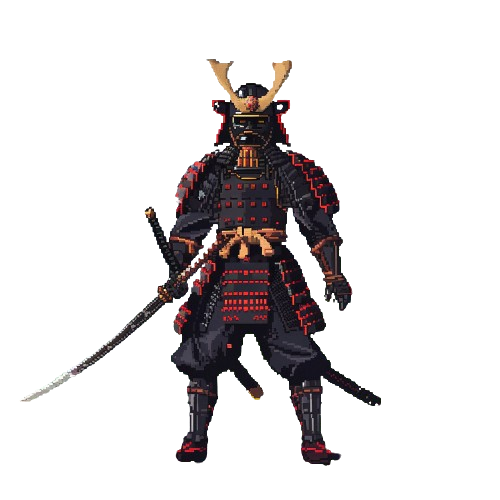
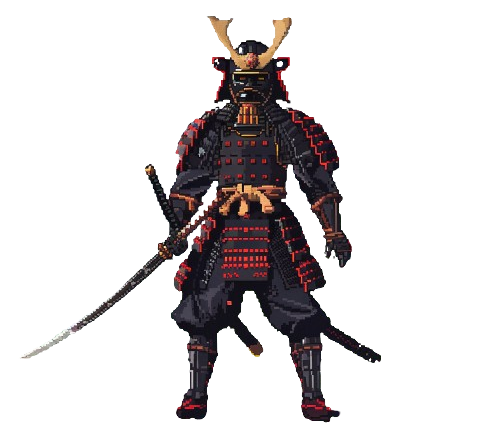
finished (i guess)

diff --git a/src/Components/PlayerCard.js b/src/Components/PlayerCard.js
@@ -6,24 +6,33 @@ import ProgressBar from './ProgressBar';
 const PlayerCard = ({ player }) => {
     
     return (
-        <div key={player.id} className="col-sm-3 card center position-relative w-25" id={`joueur${player.id}`}>
+        <div key={player.id} className="col-sm-3 center position-relative " id={`joueur${player.id}`}>
             {!player.canPlay && 
                 <div className='cantPlay'></div>
             }
 
-            <div className="card-body text-center">
-                
+            <div className="card-body p-3 text-center player-card d-flex flex-column">
+                <div className='w-100 d-flex justify-content-center'>
                 <img src={player.image} alt={`Samurai ${player.id}`}/>
+                </div>
+
+                <div className='d-flex flex-column gap-3'>
+                <div className='player-bar d-flex flex-column gap-2'>
                 <ProgressBar pv={player.pv} pvMax={player.pvMax} faType='fa-heart' barName=' : pv ' bgType='bg-danger' />
                 <ProgressBar pv={player.mana} pvMax={player.manaMax} faType='fa-fire-alt' barName=' : mana ' />
+                </div>
 
                 <span className="badge badge-danger ml-2 " id="degatSpanJ1"></span>
                 <div className="row ">
-                    <div>
+                    <div className=''>
+                        <ButtonCapacity playerId={player.id} playerCanPlay={player.canPlay} />
+                        <ButtonCapacity playerId={player.id} playerCanPlay={player.canPlay} />
+                        <ButtonCapacity playerId={player.id} playerCanPlay={player.canPlay} />
                         <ButtonCapacity playerId={player.id} playerCanPlay={player.canPlay} />
 
                     </div>
                 </div >
+                </div>
             </div >
 
         </div >

diff --git a/src/Components/Game.css b/src/Components/Game.css
@@ -2,7 +2,7 @@ body {
   background-image: url(../assets/background_pixel.png);
 
   background-size: cover;
-  background-repeat: no-repeat;
+  background-repeat: repeat-y;
 }
 
 .App {
@@ -446,6 +446,10 @@ margin: auto;
 display: block;
 }
 
+.progress {
+  height: 30px;
+}
+
 .progress-bar {
 display: -ms-flexbox;
 display: flex;
@@ -459,6 +463,13 @@ white-space: nowrap;
 background-color: #007bff;
 transition: width .6s ease;
 height: 100%;
+
+}
+
+.progress-bar > i {
+  display: flex;
+  align-items: center;
+  justify-content: center;
 }
 
 .bg-danger {
@@ -483,37 +494,34 @@ height: 100%;
 }
 
 .dragon-img-ctn {
-  width: 460px;
+  width: 320px;
   /* object-fit: contain; */
 }
 
+.player-card {
+  background-color: #282c3431;
+  border: 1px solid rgba(255, 255, 255, 0.247);
+  border-radius: 5px;
+}
 
+.player-card img {
+  width: 220px;
+  object-fit: contain;
+}
 
-
-
-
-
-
-
-
-
-
-
-
-
-
-
-
-
-
-
-
-
-
-
-
-
-
+.card-player {
+  .card-player {
+    display: flex;
+    flex-wrap: wrap;
+    justify-content: center;
+  }
+  
+  @media screen and (max-width: 768px) {
+   .card-player {
+   flex-direction: column;
+   }
+  }
+}
 
 
 

diff --git a/src/Components/ButtonCapacity.js b/src/Components/ButtonCapacity.js
@@ -8,7 +8,7 @@ const ButtonCapacity = ({ playerId, playerCanPlay }) => {
   const combat = () => {
     dispatch(
       hitMonster({ 
-        monsterDecreasePv: 180 }));
+        monsterDecreasePv: 120 }));
     dispatch(
       hitBack({
         playerHit: playerId - 1,
@@ -27,7 +27,7 @@ const ButtonCapacity = ({ playerId, playerCanPlay }) => {
         <button
           type="button"
           onClick={() => combat()}
-          className="btn btn-success material-tooltip-main "
+          className="btn btn-dark material-tooltip-main "
         >
           hit
           <i className="fas fa-bomb"></i> 5<i className="fas fa-fire-alt"></i> -
@@ -36,7 +36,7 @@ const ButtonCapacity = ({ playerId, playerCanPlay }) => {
       ) : (
         <button
           type="button"
-          className="btn btn-success material-tooltip-main "
+          className="btn btn-dark material-tooltip-main "
           disabled
         >
           hit

diff --git a/src/features/fight/fightSlice.js b/src/features/fight/fightSlice.js
@@ -11,10 +11,10 @@ import samuraiFour from '../../assets/samurai4.png';
 const initialState = {
   // TODO : Compléter 'players' et 'monster'
   players: [
-    { image: samuraiOne, pv: 210, pvMax: 100, mana: 30, manaMax: 30, id: 1, canPlay: true},
-    { image: samuraiTwo, pv: 200, pvMax: 100, mana: 30, manaMax: 30, id: 2, canPlay: true},
-    { image: samuraiThree, pv: 160, pvMax: 100, mana: 30, manaMax: 30, id: 3, canPlay: true},
-    { image: samuraiFour, pv: 120, pvMax: 100, mana: 30, manaMax: 30, id: 4, canPlay: true},
+    { image: samuraiOne, pv: 210, pvMax: 210, mana: 30, manaMax: 30, id: 1, canPlay: true},
+    { image: samuraiTwo, pv: 200, pvMax: 200, mana: 30, manaMax: 30, id: 2, canPlay: true},
+    { image: samuraiThree, pv: 160, pvMax: 160, mana: 30, manaMax: 30, id: 3, canPlay: true},
+    { image: samuraiFour, pv: 120, pvMax: 120, mana: 30, manaMax: 30, id: 4, canPlay: true},
   ],
   monster: {
     pv: 800,

diff --git a/src/Components/ProgressBar.js b/src/Components/ProgressBar.js
@@ -12,7 +12,7 @@ class ProgressBar extends React.Component {
                     aria-valuenow={this.props.pv}
                     aria-valuemin="0"
                     aria-valuemax={this.props.pvMax}
-                    role="progressbar" >
+                    role="progressbar">
                     <i className={` fas ${this.props.faType} ${this.props.bgType} icon-text`}> {this.props.pv} {this.props.barName} </i>
                 </div>
             </div >

diff --git a/src/Components/GameOver.js b/src/Components/GameOver.js
@@ -1,13 +1,12 @@
 import React from "react";
 
 const GameOver = () => {
-
   return (
-    <div className="card w-25">
-            <div className="card-body">
-             You Losed...
-            </div>
-          </div>
+    <div className="d-flex justify-content-center align-items-center vh-100">
+      <div className="card w-25">
+        <div className="card-body">You Losed...</div>
+      </div>
+    </div>
   );
 };
 

diff --git a/src/Components/PlayerList.js b/src/Components/PlayerList.js
@@ -12,7 +12,7 @@ const PlayerList = () => {
   const players = useSelector((store) => store.fight.players);
 
   return (
-    <div className="d-flex gap-5 flex-wrap justify-content-center">
+    <div className="card-player row ">
       {players.map((player, index) =>
         player.pv > 0 ? (
           <PlayerCard key={index} player={player} />

diff --git a/src/Components/GameVictory.js b/src/Components/GameVictory.js
@@ -3,11 +3,13 @@ import React from "react";
 const GameVictory = () => {
 
   return (
+    <div className="d-flex justify-content-center align-items-center vh-100">
     <div className="card w-25">
             <div className="card-body">
              You Won !
             </div>
           </div>
+    </div>
   );
 };
 
